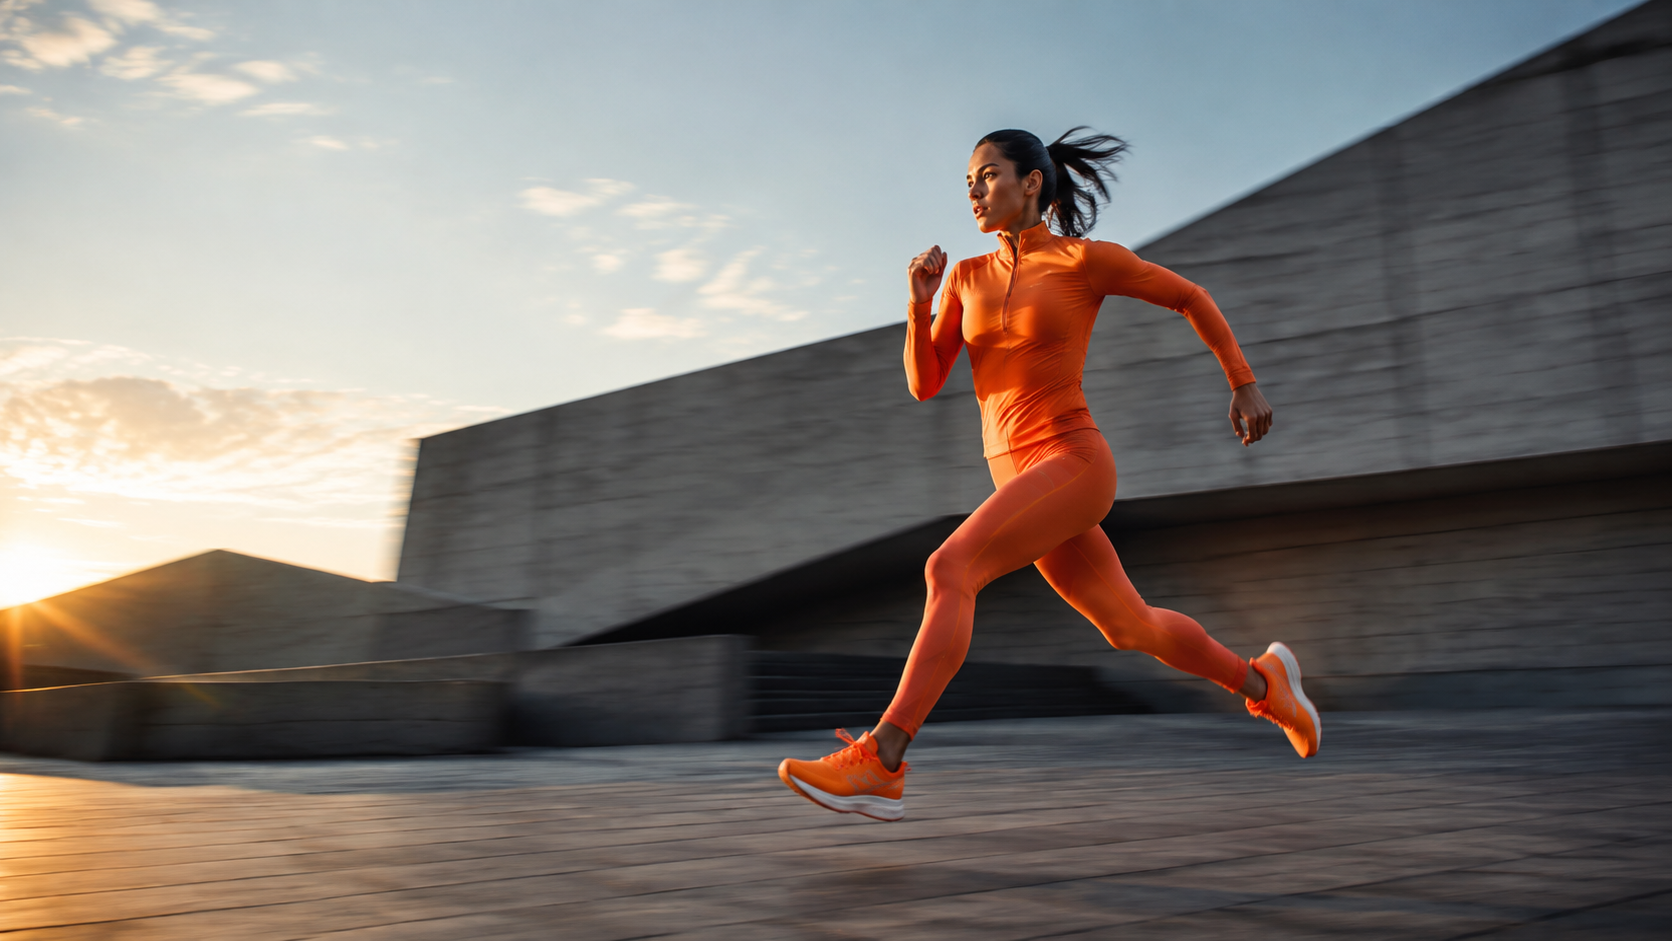
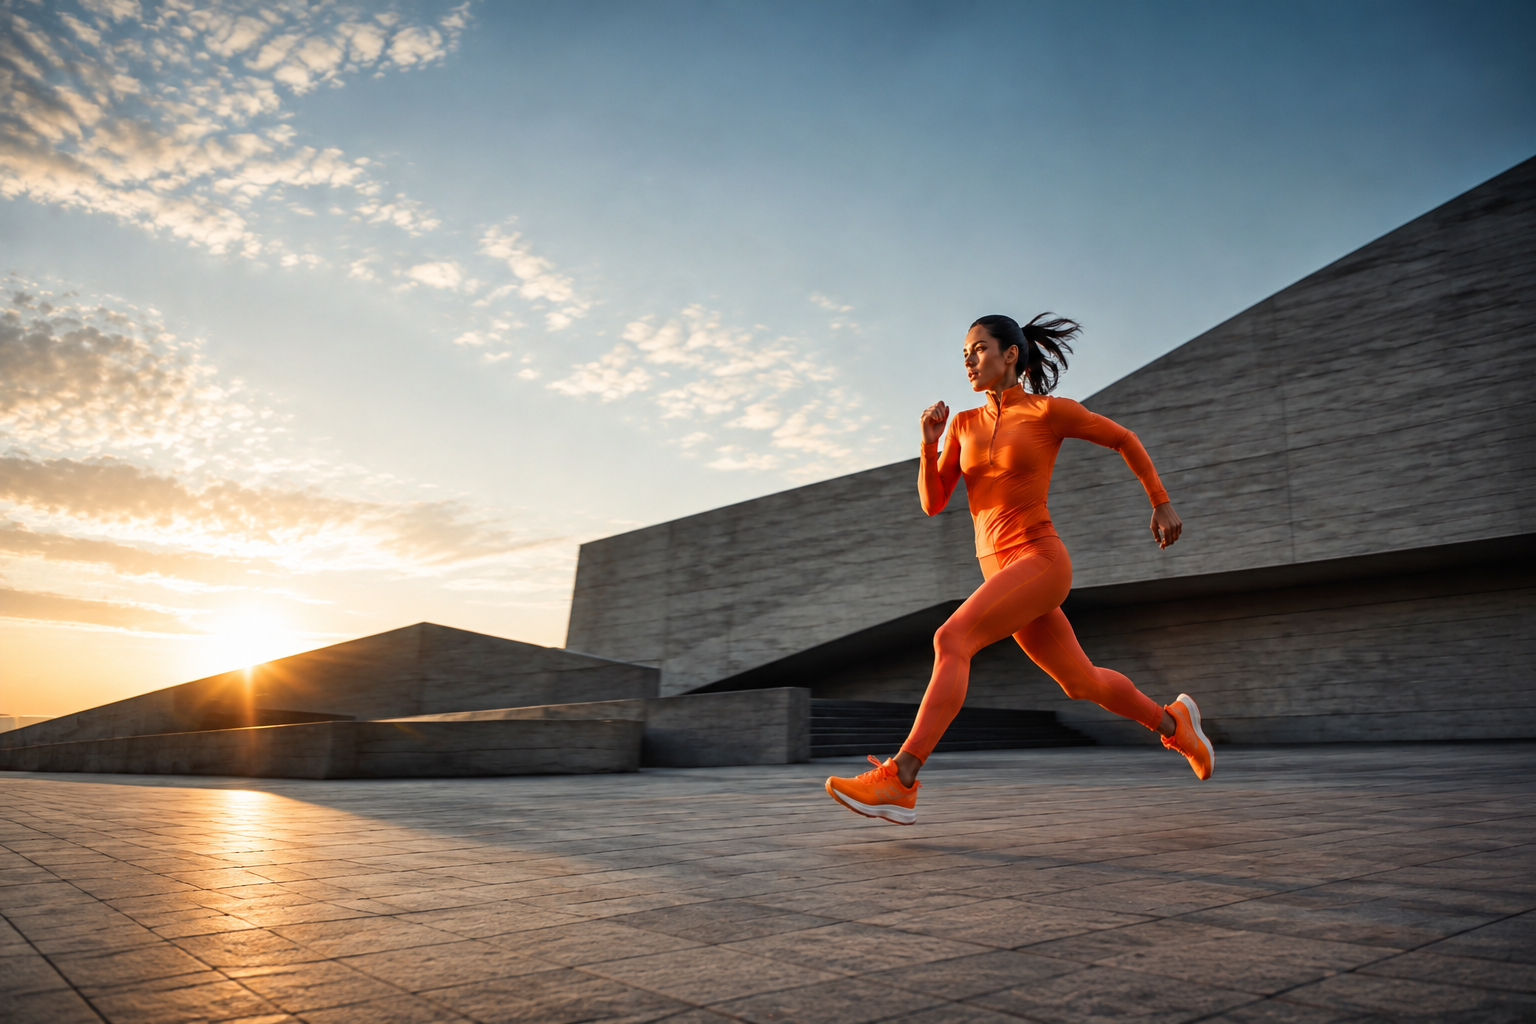
standardize iphone motion slides to 3x2

diff --git a/themes/portfolica/source/css/style.css b/themes/portfolica/source/css/style.css
@@ -2876,8 +2876,6 @@ html:has(.portfolio-hero){scroll-padding-top:72px}.site-main:has(.portfolio-hero
 .ip17-motion-gallery{width:100%;padding:0 max(32px,calc((100vw - 1180px)/2));display:flex;align-items:stretch;gap:18px;overflow-x:auto;scroll-snap-type:x mandatory;scroll-padding-inline:max(32px,calc((100vw - 1180px)/2));scrollbar-width:none;overscroll-behavior-inline:contain}
 .ip17-motion-gallery::-webkit-scrollbar{display:none}
 .ip17-motion-gallery figure{position:relative;width:auto;height:clamp(420px,48vw,640px);aspect-ratio:3/2;flex:0 0 auto;margin:0;overflow:hidden;border-radius:32px;background:#d9dde1;scroll-snap-align:start}
-.ip17-motion-gallery figure:first-child{aspect-ratio:16/9}
-.ip17-motion-gallery figure:nth-child(2){aspect-ratio:4/5}
 .ip17-motion-gallery img{display:block;width:100%;height:100%;object-fit:contain}
 .ip17-motion-primary img{object-position:center center}
 .ip17-motion-primary:after{content:"";position:absolute;inset:45% 0 0;background:linear-gradient(180deg,transparent,rgba(0,0,0,.62))}
@@ -2888,8 +2886,11 @@ html:has(.portfolio-hero){scroll-padding-top:72px}.site-main:has(.portfolio-hero
 .ip17-motion-gallery figure.ip17-reveal:nth-child(n+2){transition-delay:.12s}
 .ip17-motion-controls{width:min(1180px,calc(100vw - 64px));margin:22px auto 0;display:flex;align-items:center;justify-content:flex-end;gap:10px}
 .ip17-motion-controls>span{margin-right:8px;color:#8b8e95;font-size:12px;letter-spacing:.08em}.ip17-motion-controls>span b{color:#24262b;font-size:14px}
-.ip17-motion-controls button{width:48px;height:48px;border:0;border-radius:50%;display:grid;place-items:center;background:#dedfe2;color:#313238;font-size:20px;cursor:pointer;transition:background .25s ease,transform .25s ease}
-.ip17-motion-controls button:hover{background:#cfd1d5;transform:scale(1.04)}
+.ip17-motion-dots{margin-right:auto;display:flex;align-items:center;gap:8px}
+.ip17-motion-dots button{width:7px;height:7px;padding:0;border:0;border-radius:50%;background:#c5c7cb;cursor:pointer;transition:width .32s ease,background .32s ease,transform .32s ease}
+.ip17-motion-dots button[aria-current="true"]{width:24px;border-radius:99px;background:#24262b}
+.ip17-motion-controls>button{width:48px;height:48px;border:0;border-radius:50%;display:grid;place-items:center;background:#dedfe2;color:#313238;font-size:20px;cursor:pointer;transition:background .25s ease,transform .25s ease}
+.ip17-motion-controls>button:hover{background:#cfd1d5;transform:scale(1.04)}
 .ip17-performance-section{position:relative;top:auto;display:flex;min-height:auto;padding:clamp(86px,9vw,130px) 0 clamp(72px,8vw,110px);flex-direction:column;justify-content:flex-start;gap:clamp(58px,7vh,88px);background:#000;box-shadow:none;color:#f5f5f7;text-align:center}
 .ip17-performance-copy{width:var(--ip17-content);margin:0 auto}
 .ip17-product-page .ip17-performance-copy h2{max-width:850px;margin:0 auto 30px;font-size:clamp(52px,6vw,90px);line-height:1.04;letter-spacing:-.06em;text-align:center}
@@ -2898,7 +2899,7 @@ html:has(.portfolio-hero){scroll-padding-top:72px}.site-main:has(.portfolio-hero
 .ip17-gameplay{width:min(1120px,calc(100vw - 112px));margin:0 auto;line-height:0}
 .ip17-gameplay img{display:block;width:100%;height:auto;filter:drop-shadow(0 28px 42px rgba(0,0,0,.34))}
 @media(max-width:700px){.ip17-life-section{padding:76px 0}.ip17-life-copy{width:calc(100vw - 48px)}.ip17-product-page .ip17-life-copy h2{font-size:clamp(42px,12vw,56px)}.ip17-performance-section{padding:76px 0 70px;gap:48px}.ip17-performance-copy{width:calc(100vw - 48px)}.ip17-product-page .ip17-performance-copy h2{font-size:clamp(42px,12vw,56px);text-align:center}.ip17-performance-copy .ip17-copy{text-align:center}.ip17-performance-specs{justify-content:center}.ip17-gameplay{width:calc(100vw - 32px)}}
-@media(max-width:700px){.ip17-motion-gallery{padding:0 16px;gap:12px;scroll-padding-inline:16px}.ip17-motion-gallery figure{height:min(76vw,430px);border-radius:24px}.ip17-motion-primary figcaption{left:22px;bottom:24px}.ip17-motion-controls{width:calc(100vw - 32px);margin-top:16px}.ip17-motion-controls button{width:44px;height:44px}}
+@media(max-width:700px){.ip17-motion-gallery{padding:0 16px;gap:12px;scroll-padding-inline:16px}.ip17-motion-gallery figure{height:min(76vw,430px);border-radius:24px}.ip17-motion-primary figcaption{left:22px;bottom:24px}.ip17-motion-controls{width:calc(100vw - 32px);margin-top:16px}.ip17-motion-controls>button{width:44px;height:44px}}
 
 /* Display sequence: one self-contained cinematic timeline */
 .ip17-product-page .ip17-display-section{--display-layout-progress:0;--display-phone-scale:3.65;--display-phone-top:50%;height:185vh;min-height:1320px}
